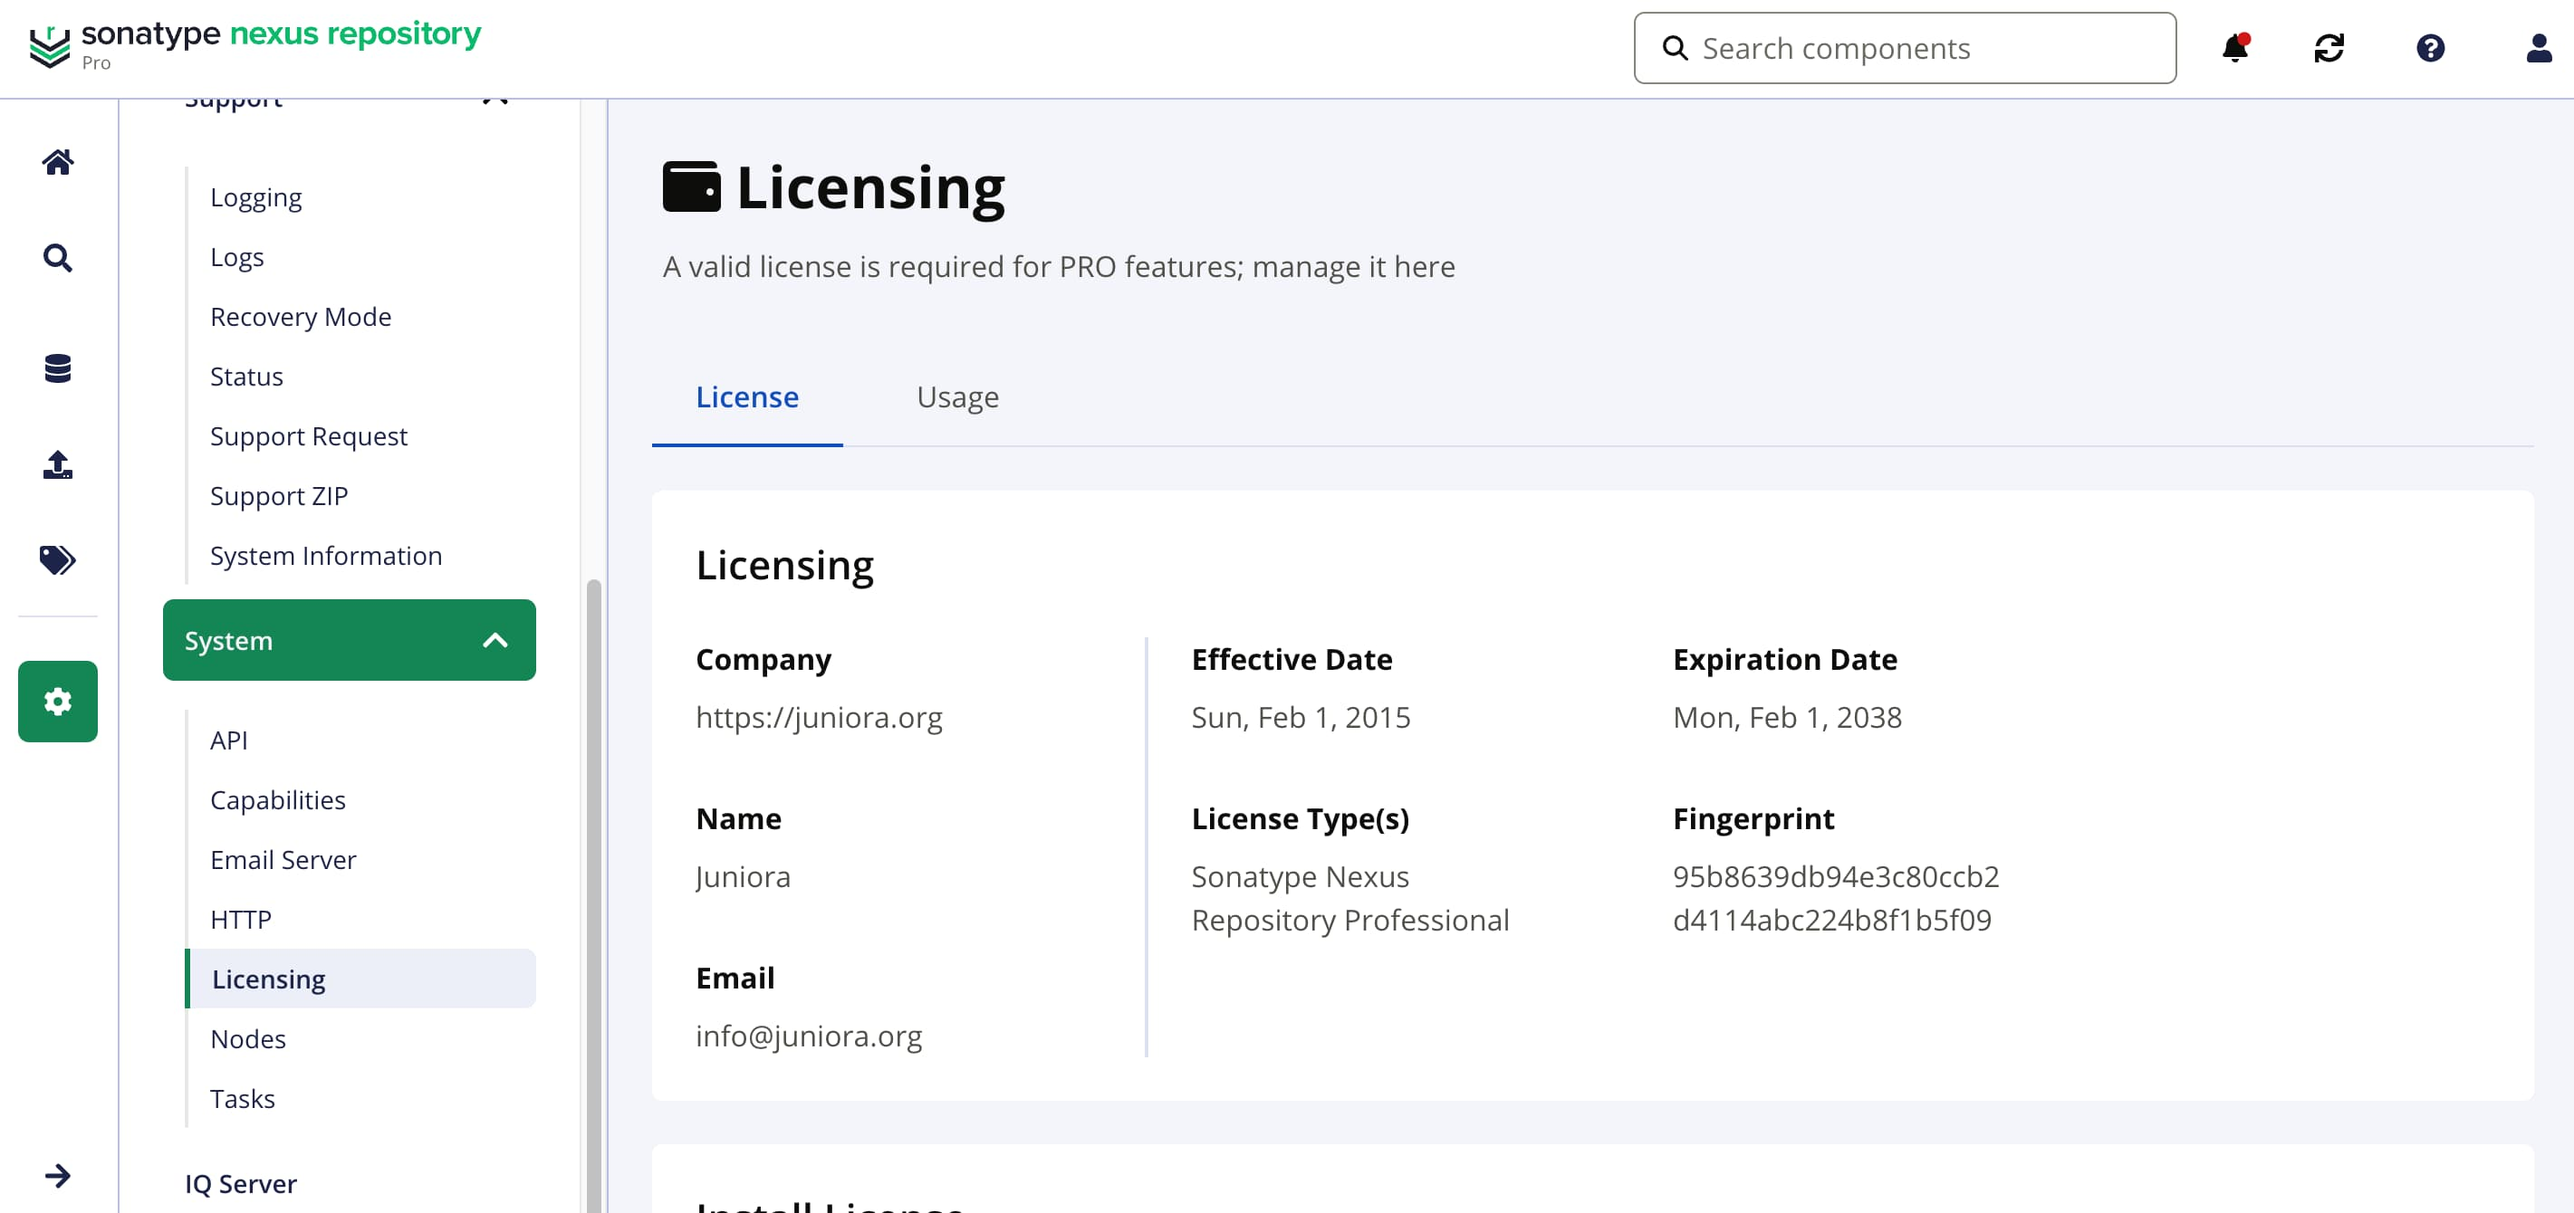
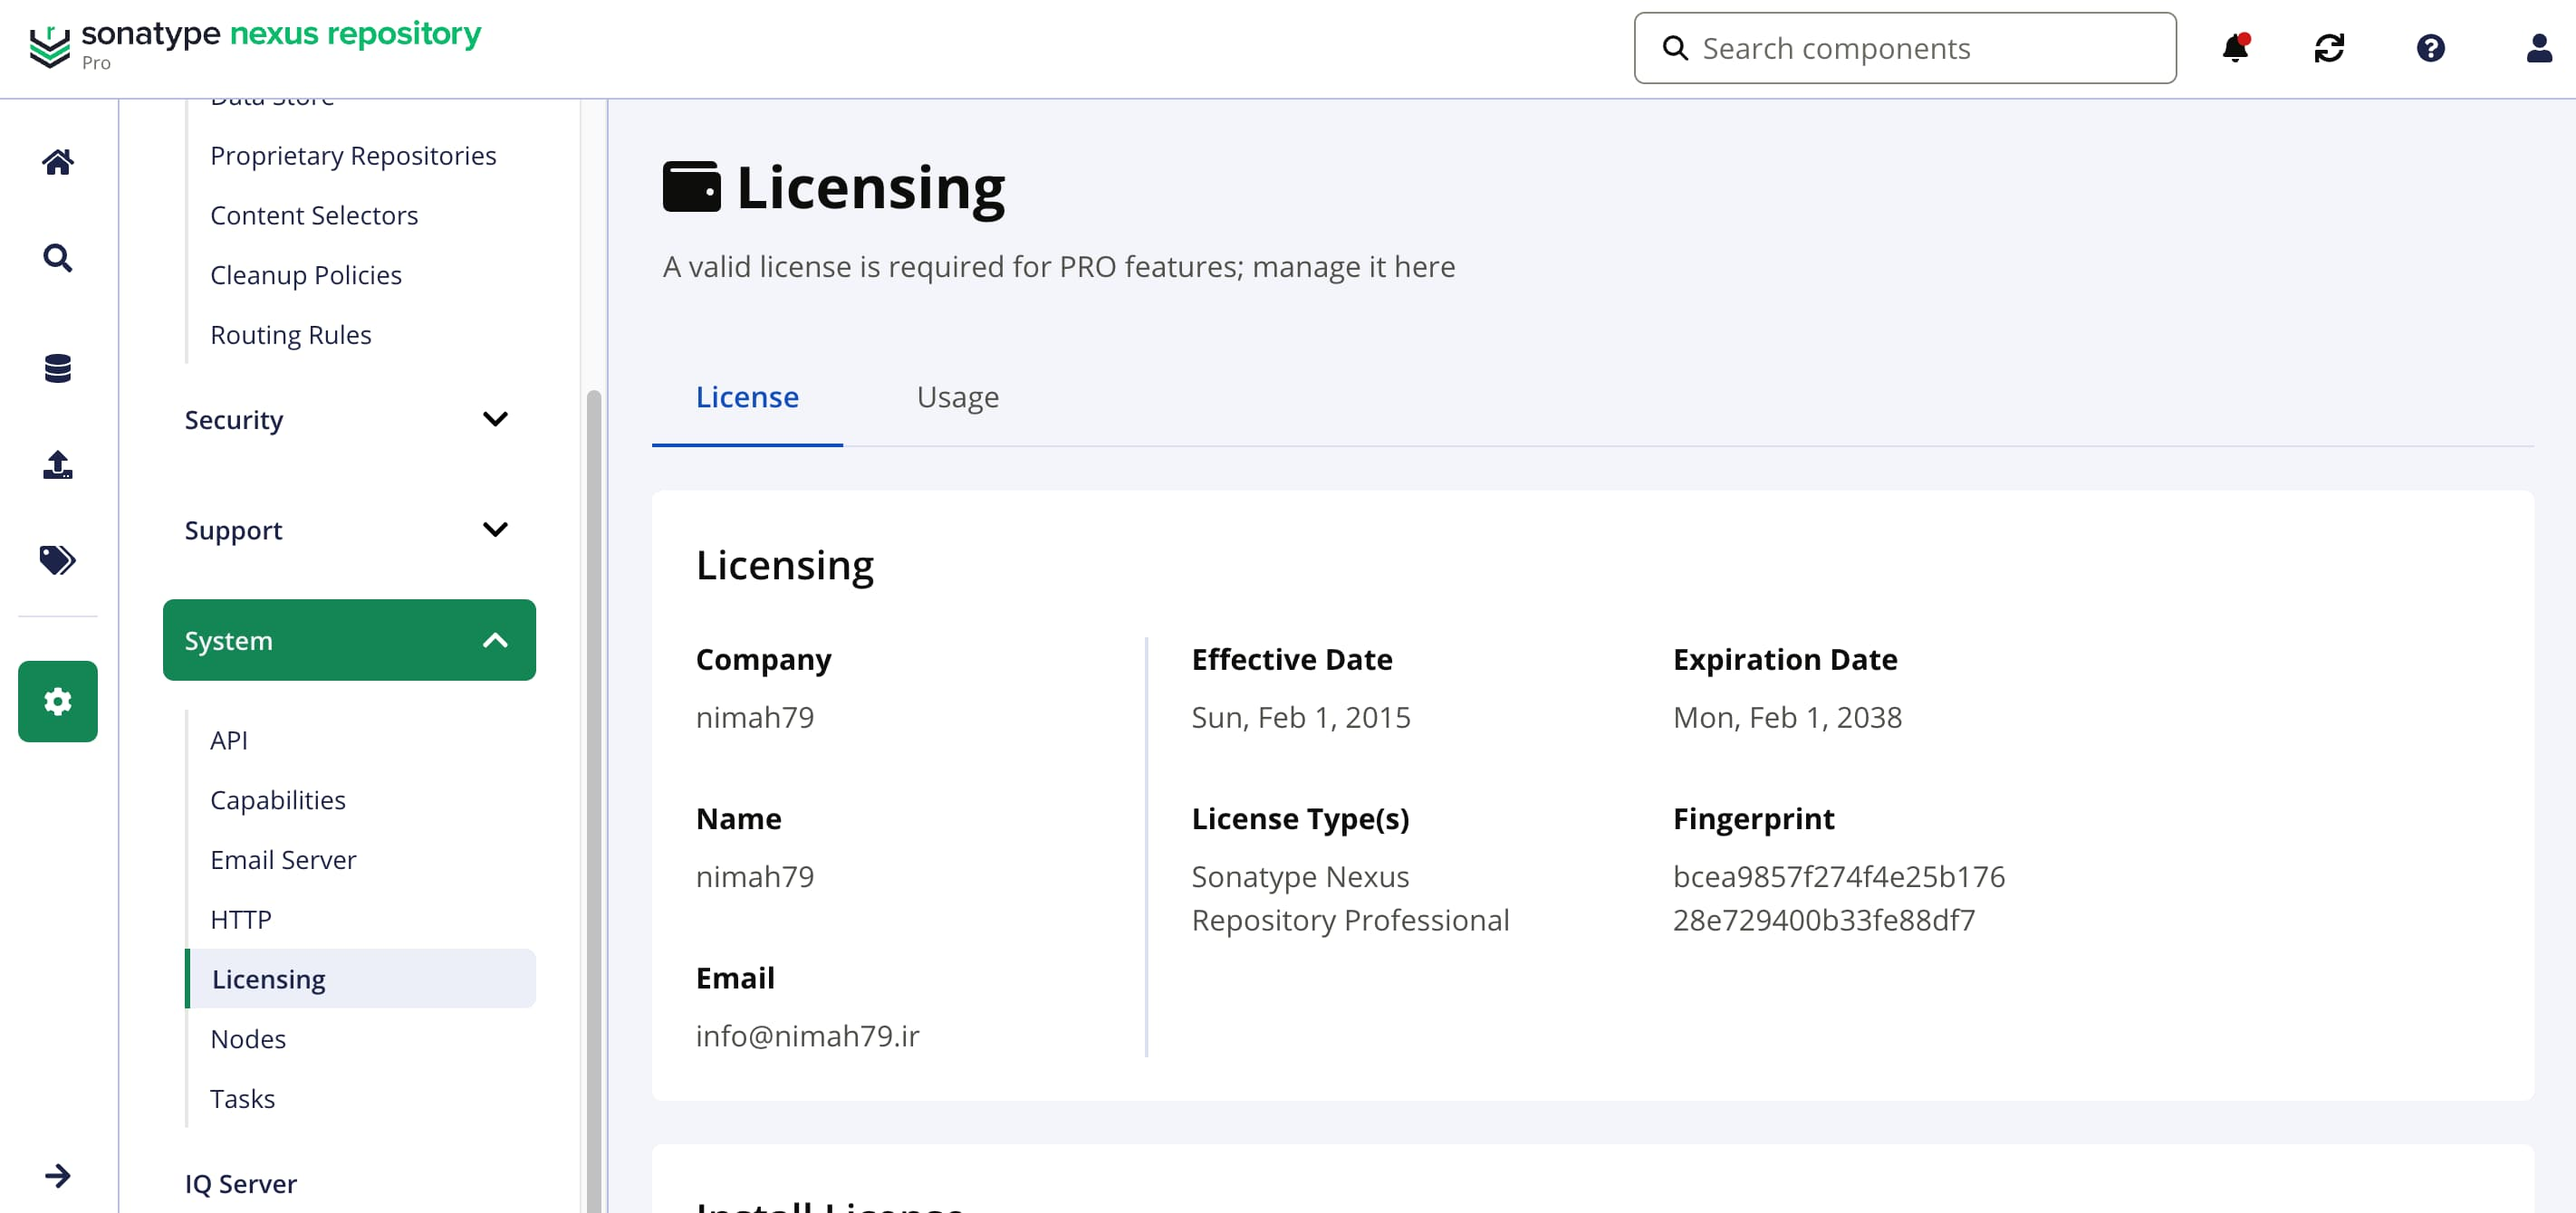
feat: rename contact

diff --git a/src/main/java/com/example/agent/NexusLicenseAgent.java b/src/main/java/com/example/agent/NexusLicenseAgent.java
@@ -68,9 +68,9 @@ public class NexusLicenseAgent {
         return "{\n" +
             "    System.out.flush();\n" +
             "    org.sonatype.licensing.LicenseKey licenseKey = (org.sonatype.licensing.LicenseKey)this.ooh.get();\n" +
-            "    licenseKey.setContactName(\"Juniora\");\n" +
-            "    licenseKey.setContactCompany(\"https://juniora.org\");\n" +
-            "    licenseKey.setContactEmailAddress(\"info@juniora.org\");\n" +
+            "    licenseKey.setContactName(\"nimah79\");\n" +
+            "    licenseKey.setContactCompany(\"nimah79\");\n" +
+            "    licenseKey.setContactEmailAddress(\"info@nimah79.ir\");\n" +
             "    licenseKey.setContactTelephone(\"11011001110\");\n" +
             "    licenseKey.setContactCountry(\"Iran\");\n" +
             "    licenseKey.setEvaluation(false);\n" +

diff --git a/README.md b/README.md
@@ -8,10 +8,9 @@ Latest tested version: [3.90.1](https://help.sonatype.com/en/sonatype-nexus-repo
 
 ## Build
 
-The prebuilt jar file of the javaagent is available in `nexus-repository-license-bypass-agent-1.0.jar`. However, if you have modified the source code, you can build the jar file using the following commands:
+The prebuilt jar file of the javaagent is available in `nexus-repository-license-bypass-agent-1.0.jar`. However, if you have modified the source code, you can build the jar file using the following command:
 
 ```bash
-cd javaagent
 mvn clean package
 ```
 
@@ -41,9 +40,9 @@ Note: It seems that only the `org.sonatype.licensing.trial.internal.DefaultTrial
 
 Methods like `verifyLicense` and `installLicense` are patched to return a fake professional license:
 
-- **Contact Name**: Juniora
-- **Contact Company**: https://juniora.org
-- **Contact Email**: info@juniora.org
+- **Contact Name**: nimah79
+- **Contact Company**: nimah79
+- **Contact Email**: info@nimah79.ir
 - **Contact Telephone**: 11011001110
 - **Contact Country**: Iran
 - **Evaluation**: false
@@ -59,7 +58,7 @@ Methods like `verifyLicense` and `installLicense` are patched to return a fake p
 JVM Start
     │
     ▼
-Load javaagent.jar
+Load nexus-repository-license-bypass-agent-1.0.jar
     │
     ▼
 Call NexusLicenseAgent.premain()
